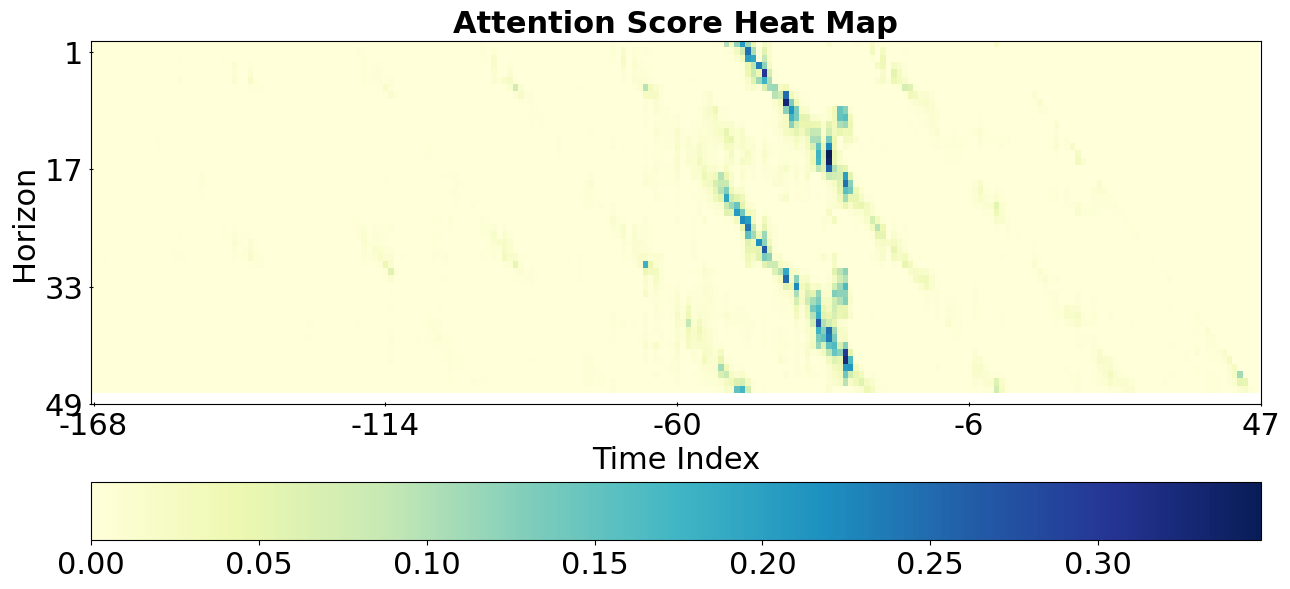
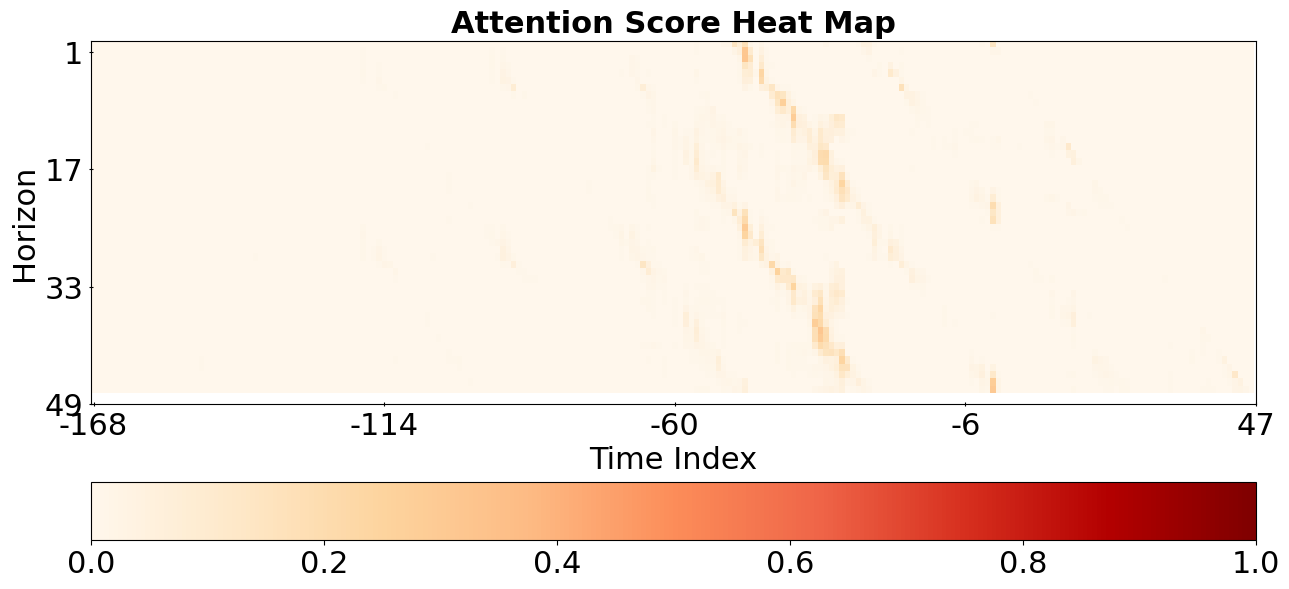
fix: set value range for cmap

diff --git a/tft_interp.py b/tft_interp.py
@@ -312,7 +312,7 @@ class Visualizer:
         fig = plt.figure(figsize=self.figsize)
         if ax is None:
             ax = plt.axes()
-        cax = ax.imshow(attn_score, cmap="YlGnBu", aspect="auto")
+        cax = ax.imshow(attn_score, cmap="OrRd", aspect="auto", vmin=0, vmax=1)
         cbar = fig.colorbar(cax, ax=ax, orientation="horizontal")
         cbar.ax.tick_params(labelsize=self.fontsize)
 

diff --git a/README.md b/README.md
@@ -1,7 +1,6 @@
 # Transformer Temporal Fusion
 Pytorch implementation of [Transformer Temporal Fusion](https://ai.googleblog.com/2021/12/interpretable-deep-learning-for-time.html) (TFT) for time series forecast. 
-This implementation, adapted from the referenced repository [pytorch-forecasting](https://pytorch-forecasting.readthedocs.io/en/stable/index.html)
-, simplified for developers outside the computer science field.
+This implementation, adapted from the referenced repository [pytorch-forecasting](https://pytorch-forecasting.readthedocs.io/en/stable/index.html), simplified for developers outside the computer science field.
 
 <p align="center">
   <img src="./figure/forecast.gif" width="700px" height="500px" >
